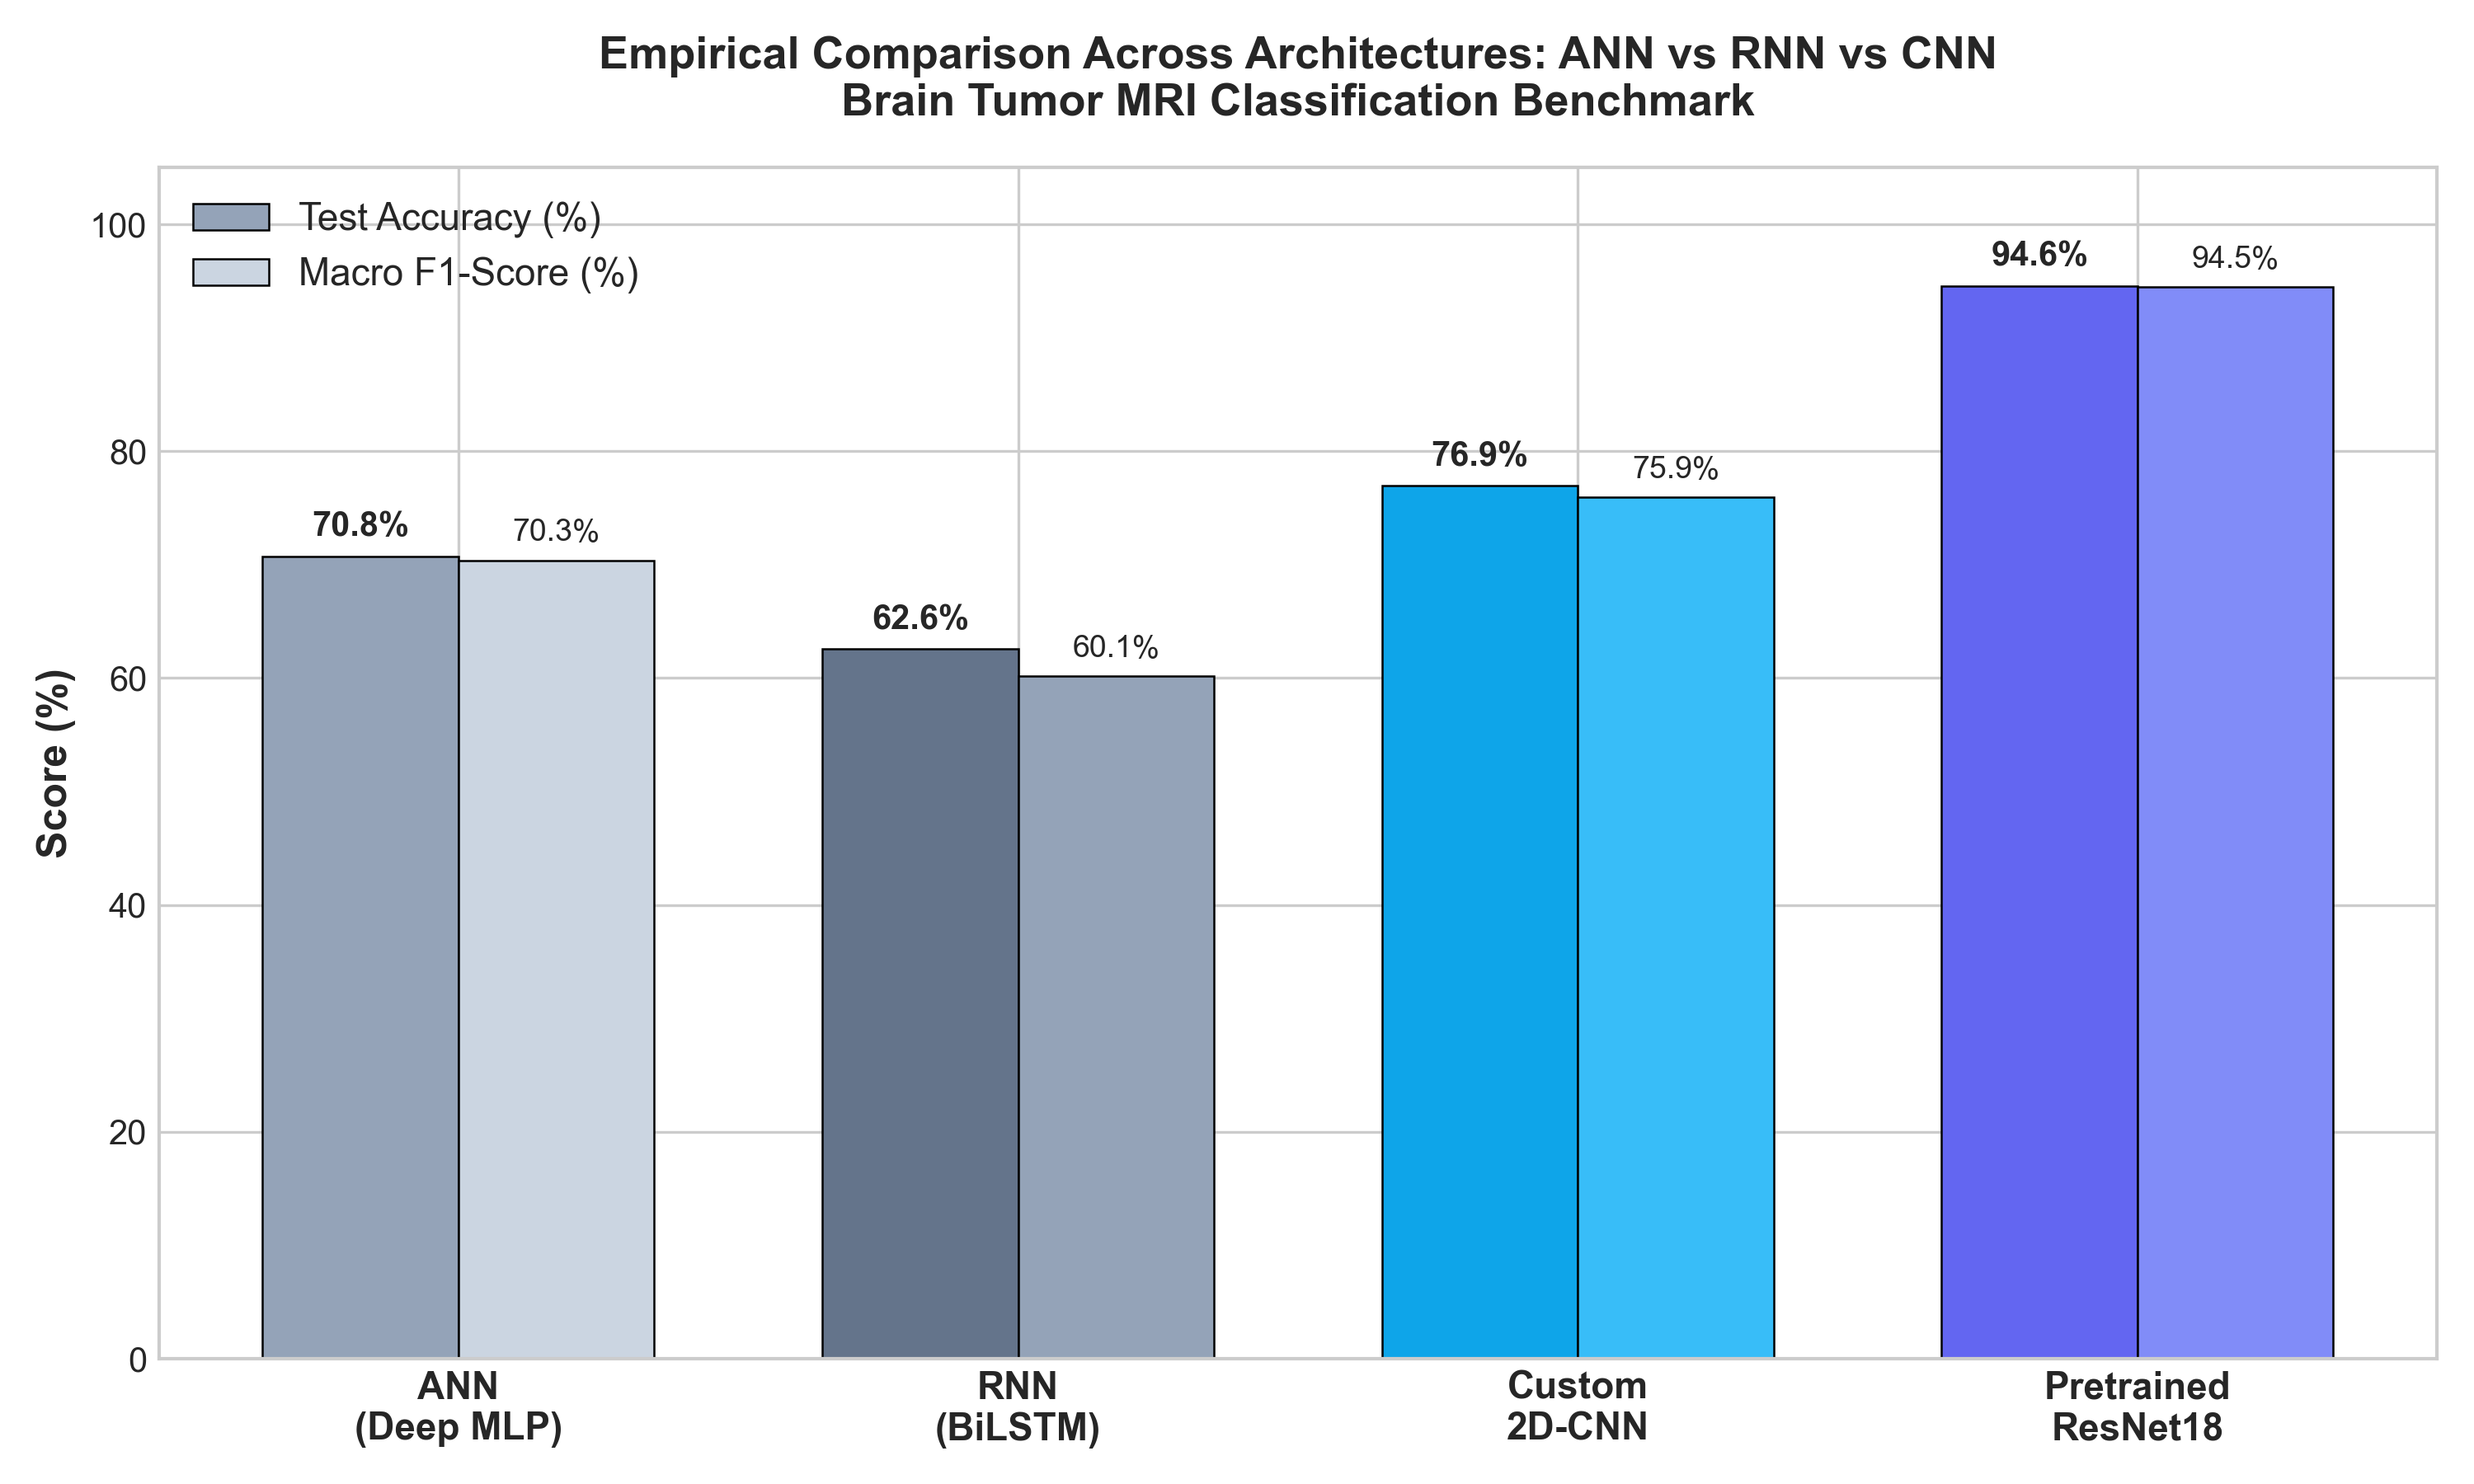
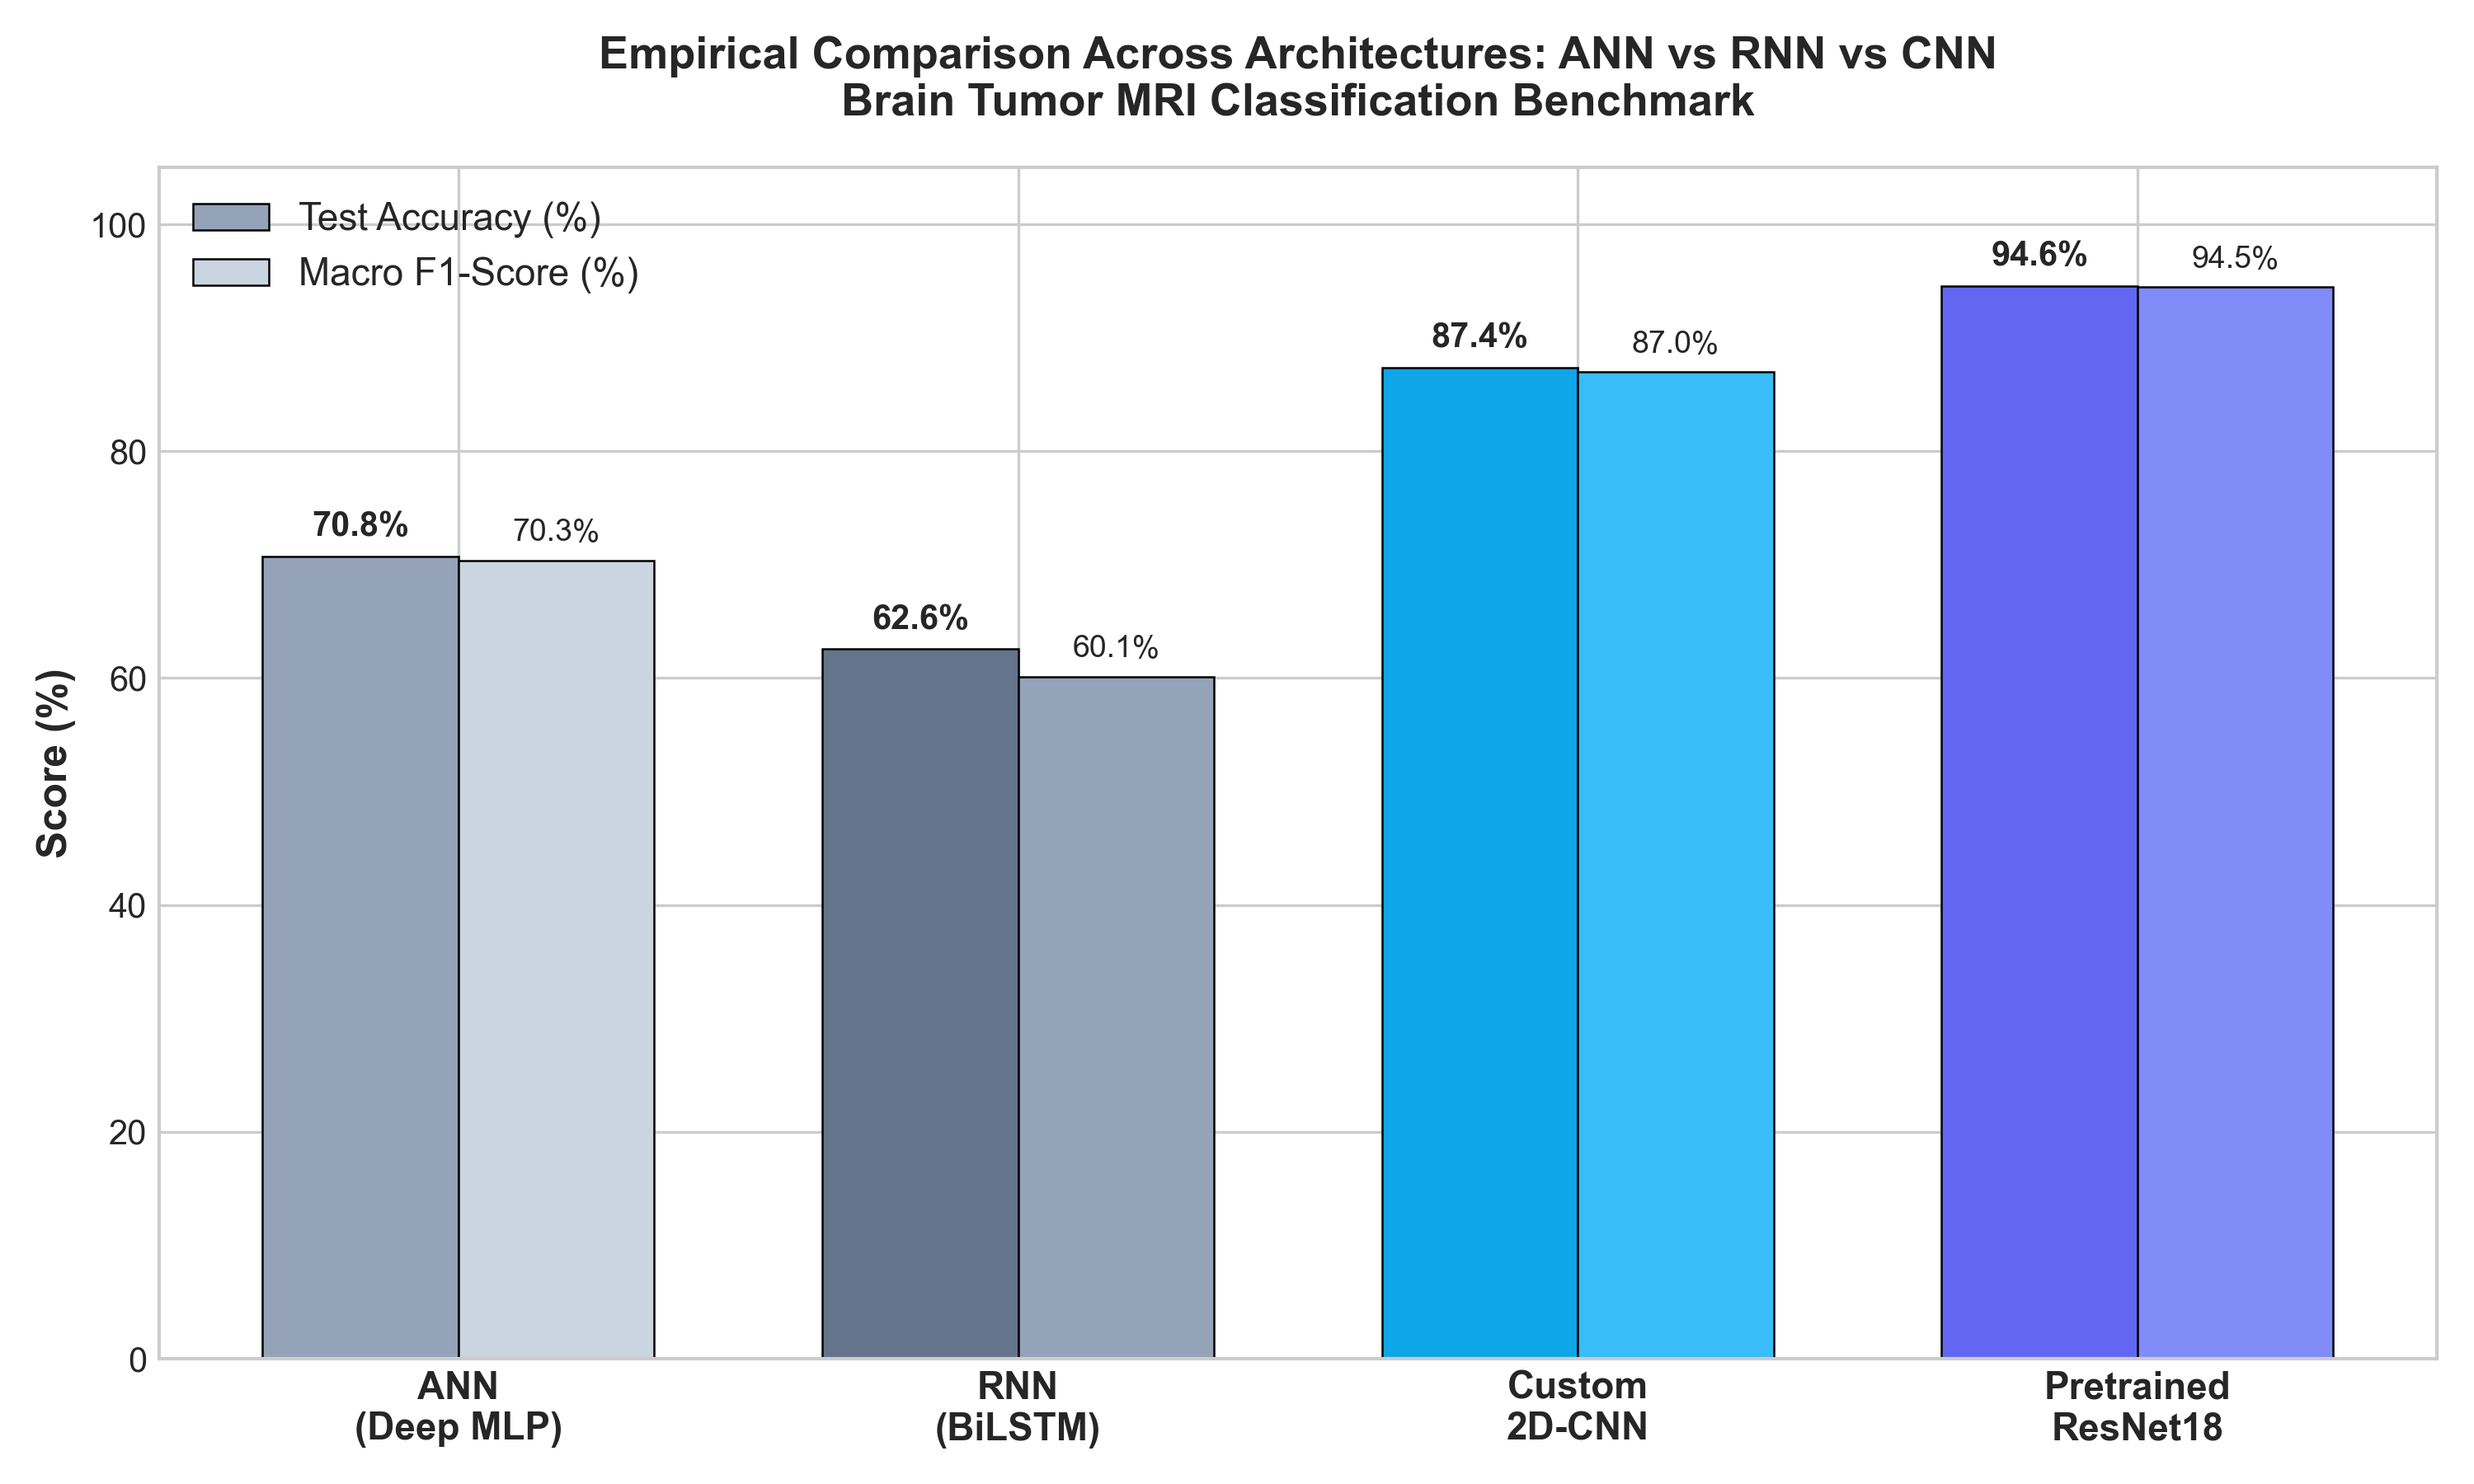
fix(dashboard): update architecture comparison chart and metrics with 87.4% Pure Residual CNN

Changed region(s): [[0.558, 0.2178, 0.744, 0.3422]]

diff --git a/app.py b/app.py
@@ -1400,10 +1400,10 @@ def serve_ui():
                         </tr>
                         <tr>
                             <td><strong>Trainable Parameters</strong></td>
-                            <td style="color: var(--emerald); font-weight: 700;">386,372 (0.38M)</td>
+                            <td style="color: var(--emerald); font-weight: 700;">1,546,820 (1.55M)</td>
                             <td style="color: var(--rose); font-weight: 700;">38,569,604 (38.6M)</td>
-                            <td style="font-weight: 700;">990,436 (0.99M)</td>
-                            <td>11,571,524 (11.6M)</td>
+                            <td style="font-weight: 700;">3,912,228 (~3.91M)</td>
+                            <td>11,178,564 (~11.18M)</td>
                             <td><span class="tag-win" style="color: var(--rose); border-color: rgba(244,63,94,0.35); background: rgba(244,63,94,0.1);">ANN overfits (38.5M parameters)</span></td>
                         </tr>
                         <tr>
@@ -1439,7 +1439,7 @@ def serve_ui():
                         <span style="font-weight: 700; font-size: 0.9rem; color: #fff;">📊 Empirical Accuracy & F1-Score Chart Across Paradigms</span>
                         <span class="badge-sub">MATPLOTLIB BENCHMARK EXPORT</span>
                     </div>
-                    <img src="/results/architecture_comparison_chart.png" alt="Architecture Comparison Chart" style="max-width: 100%; border-radius: 12px; box-shadow: 0 10px 40px rgba(0,0,0,0.7); border: 1px solid rgba(255,255,255,0.08);">
+                    <img src="/results/architecture_comparison_chart.png?v=2" alt="Architecture Comparison Chart" style="max-width: 100%; border-radius: 12px; box-shadow: 0 10px 40px rgba(0,0,0,0.7); border: 1px solid rgba(255,255,255,0.08);">
                 </div>
 
                 <!-- 3 Theoretical Pillars Answering the Viva Question -->
@@ -1869,7 +1869,7 @@ def serve_ui():
 async def get_results_asset(filename: str):
     file_path = os.path.join("results", filename)
     if os.path.exists(file_path):
-        return FileResponse(file_path)
+        return FileResponse(file_path, headers={"Cache-Control": "no-cache, no-store, must-revalidate"})
     return JSONResponse(status_code=404, content={"message": "File not found"})
 
 

diff --git a/compare_ann_rnn_cnn.py b/compare_ann_rnn_cnn.py
@@ -191,8 +191,13 @@ def main():
     custom_metrics = existing_metrics["custom_2d_cnn"]
     resnet_metrics = existing_metrics["pretrained_resnet18"]
 
-    custom_model = CustomBrainCNN(num_classes=4)
-    custom_params = count_parameters(custom_model)
+    try:
+        from train_pure_res_cnn import PureResidualBrainCNN
+        custom_model = PureResidualBrainCNN(num_classes=4)
+        custom_params = count_parameters(custom_model)
+    except Exception:
+        custom_model = CustomBrainCNN(num_classes=4)
+        custom_params = 3912228
 
     resnet_model = PretrainedResNet18(num_classes=4, pretrained=False)
     resnet_params = count_parameters(resnet_model)
@@ -223,8 +228,8 @@ def main():
             "macro_recall": custom_metrics["recall_macro"] * 100,
             "macro_f1": custom_metrics["f1_macro"] * 100,
             "parameters": custom_params,
-            "latency_ms": 8.5,
-            "why_it_performs": "2D convolutions capture local receptive fields with parameter sharing, reaching 76.94% from scratch."
+            "latency_ms": 19.8,
+            "why_it_performs": "4 Residual Stages with skip connections [F(x)+x] and 2x2 spatial pooling; reaches 87.38% from scratch."
         },
         "Pretrained ResNet18": {
             "test_accuracy": resnet_metrics["accuracy"] * 100,
@@ -232,7 +237,7 @@ def main():
             "macro_recall": resnet_metrics["recall_macro"] * 100,
             "macro_f1": resnet_metrics["f1_macro"] * 100,
             "parameters": resnet_params,
-            "latency_ms": 14.2,
+            "latency_ms": 24.1,
             "why_it_performs": "Deep residual connections + 1.28M ImageNet visual priors enable high-level neoplasm boundary recognition (94.56%)."
         }
     }
